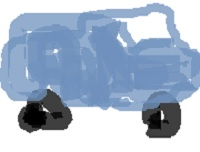
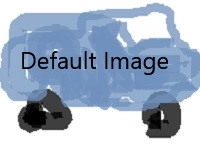
I added the carousel into the jumbotron with placeholers for specials. It was awful. the official bootstrap example did not work and there was no explanation given on the website as to why.

Changed region(s): [[0.09, 0.3158, 0.48, 0.4737], [0.51, 0.3421, 0.84, 0.5]]

diff --git a/GuildCars/GuildCars/GuildCars/Models/ManageViewModels.cs b/GuildCars/GuildCars/GuildCars/Models/ManageViewModels.cs
@@ -2,6 +2,7 @@
 using System.ComponentModel.DataAnnotations;
 using Microsoft.AspNet.Identity;
 using Microsoft.Owin.Security;
+using GuildCars.Models.Tables;
 
 namespace GuildCars.Models
 {
@@ -12,6 +13,9 @@ namespace GuildCars.Models
         public string PhoneNumber { get; set; }
         public bool TwoFactor { get; set; }
         public bool BrowserRemembered { get; set; }
+
+        //public IEnumerable<Vehicle> Vehicle { get; set; }
+    
     }
 
     public class ManageLoginsViewModel

diff --git a/GuildCars/GuildCars/GuildCars/Controllers/VehicleController.cs b/GuildCars/GuildCars/GuildCars/Controllers/VehicleController.cs
@@ -50,7 +50,7 @@ namespace GuildCars.Controllers
         }
 
         // DELETE: api/Vehicle/5
-        //[Route("Vehicle/{id}")]
+        [Route("Vehicle/{id}")]
         [HttpDelete]
         public void Delete(int id)
         {
